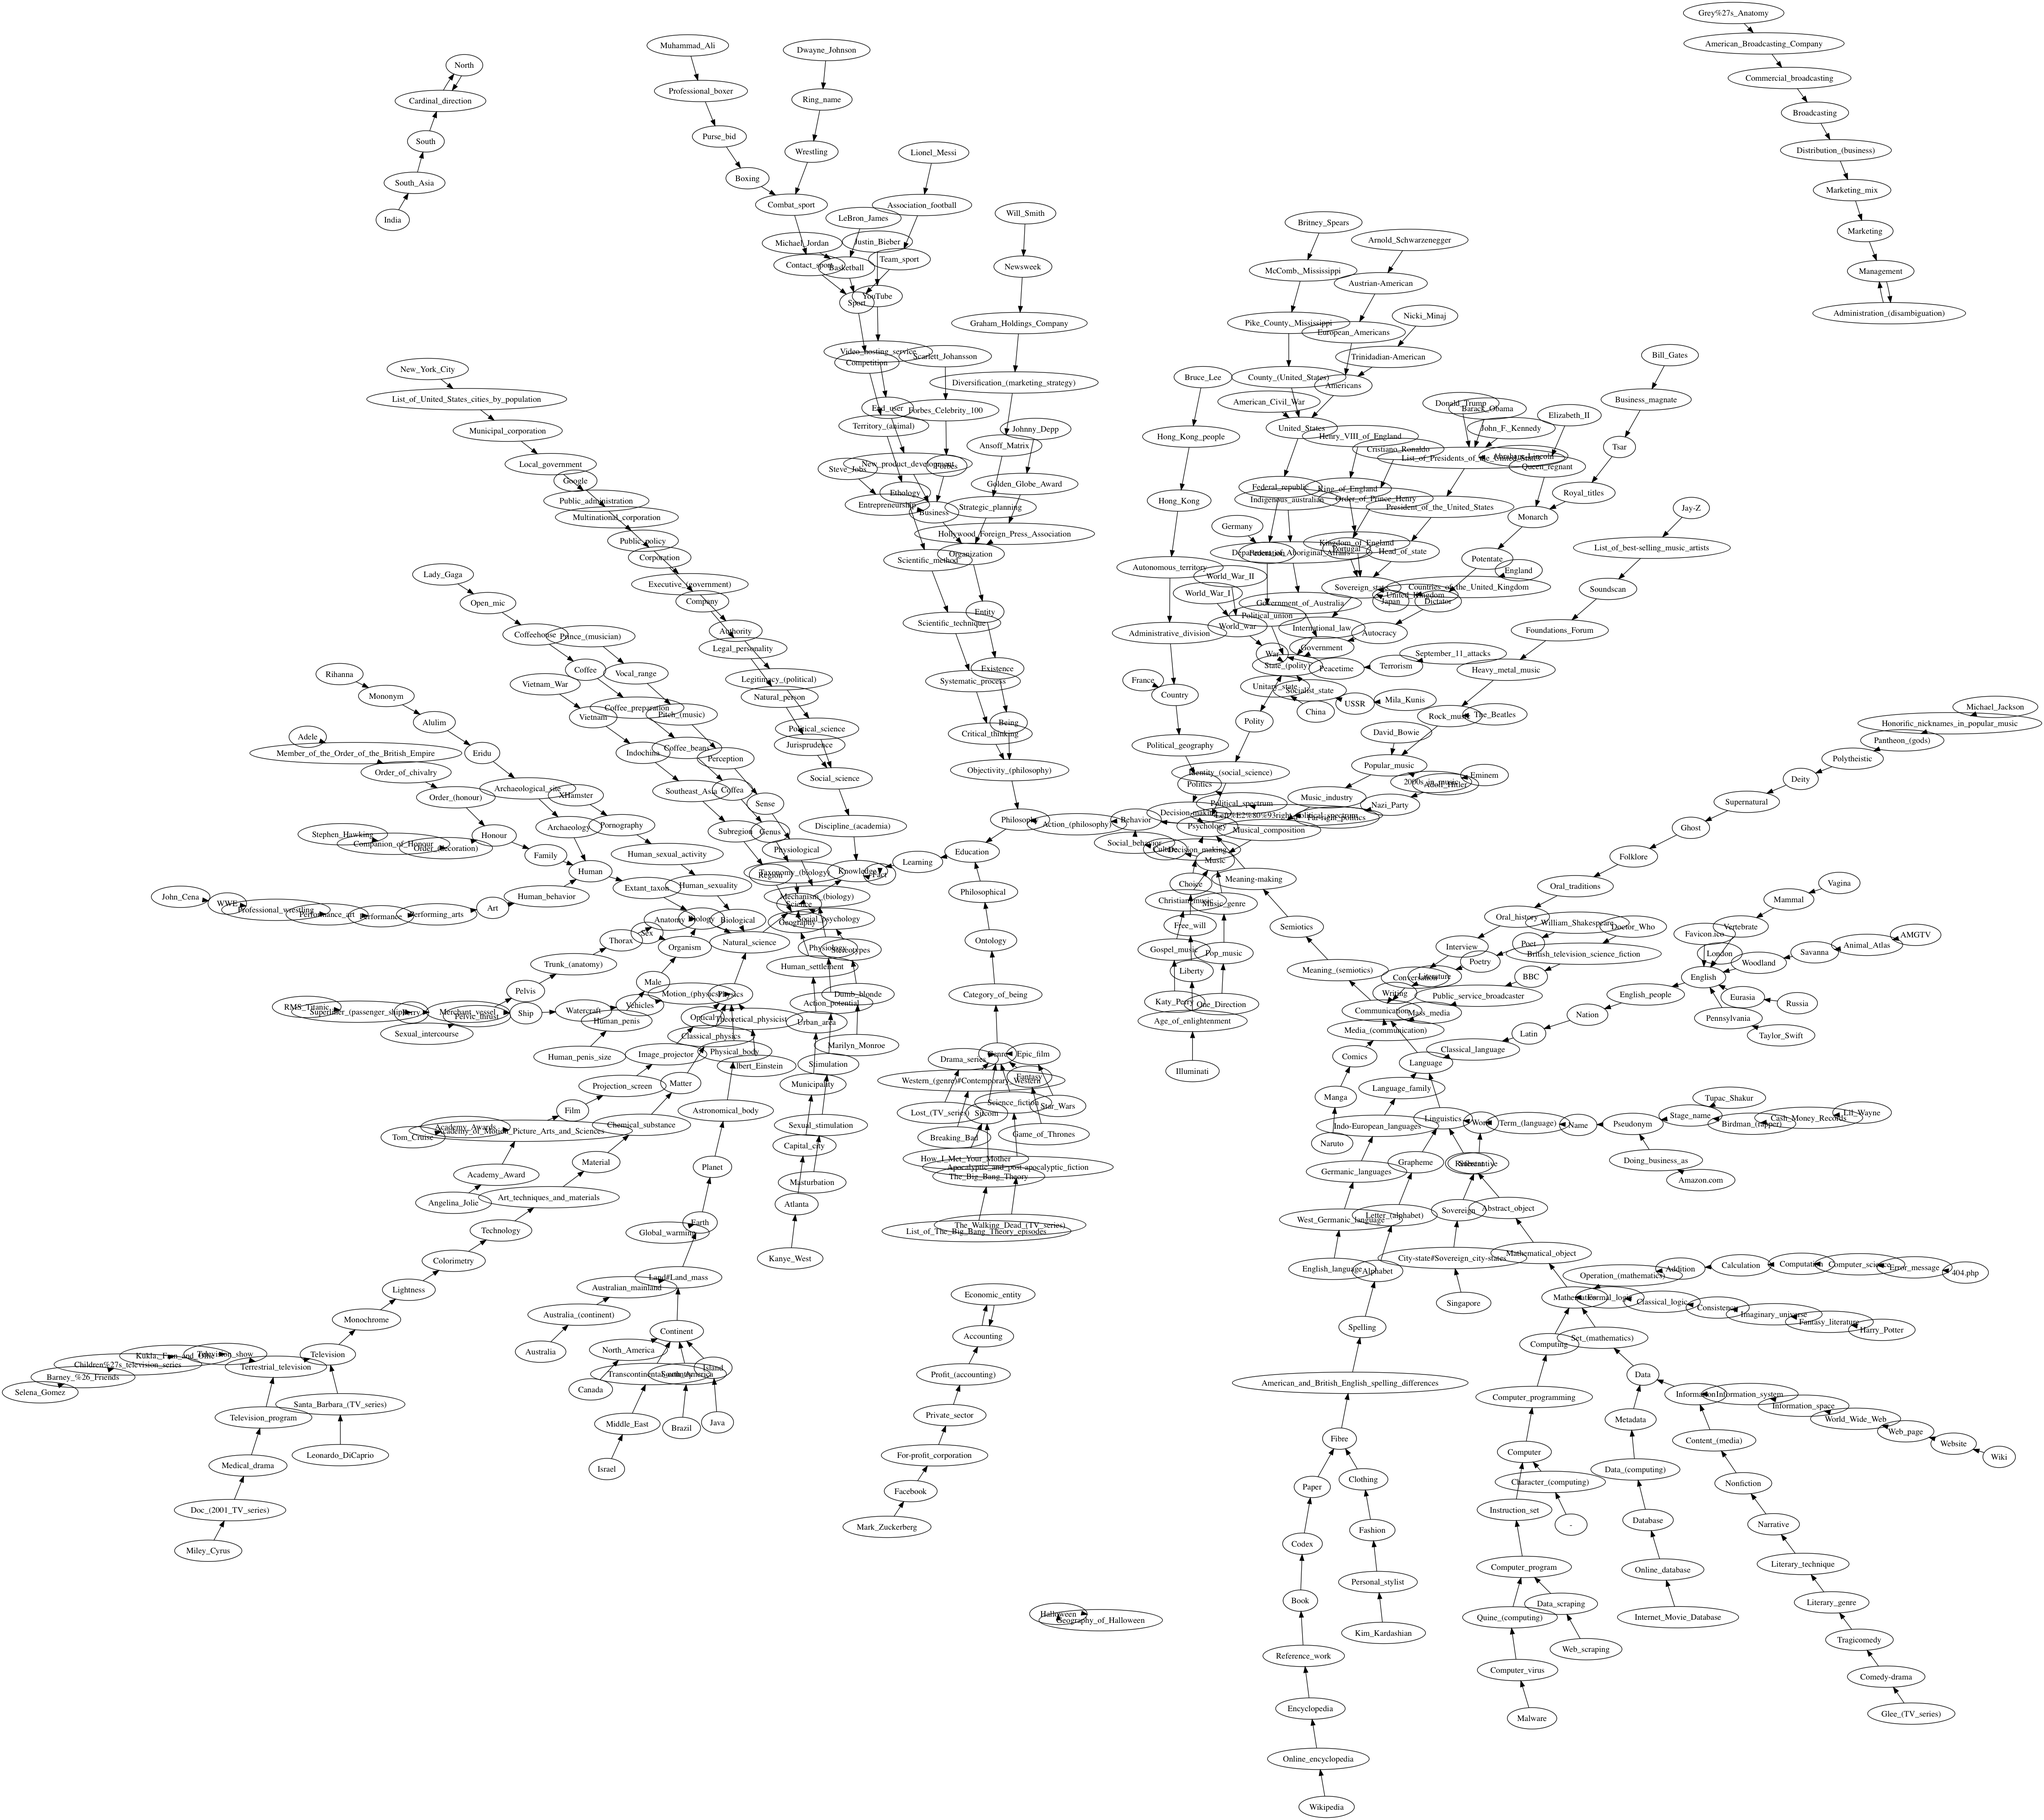
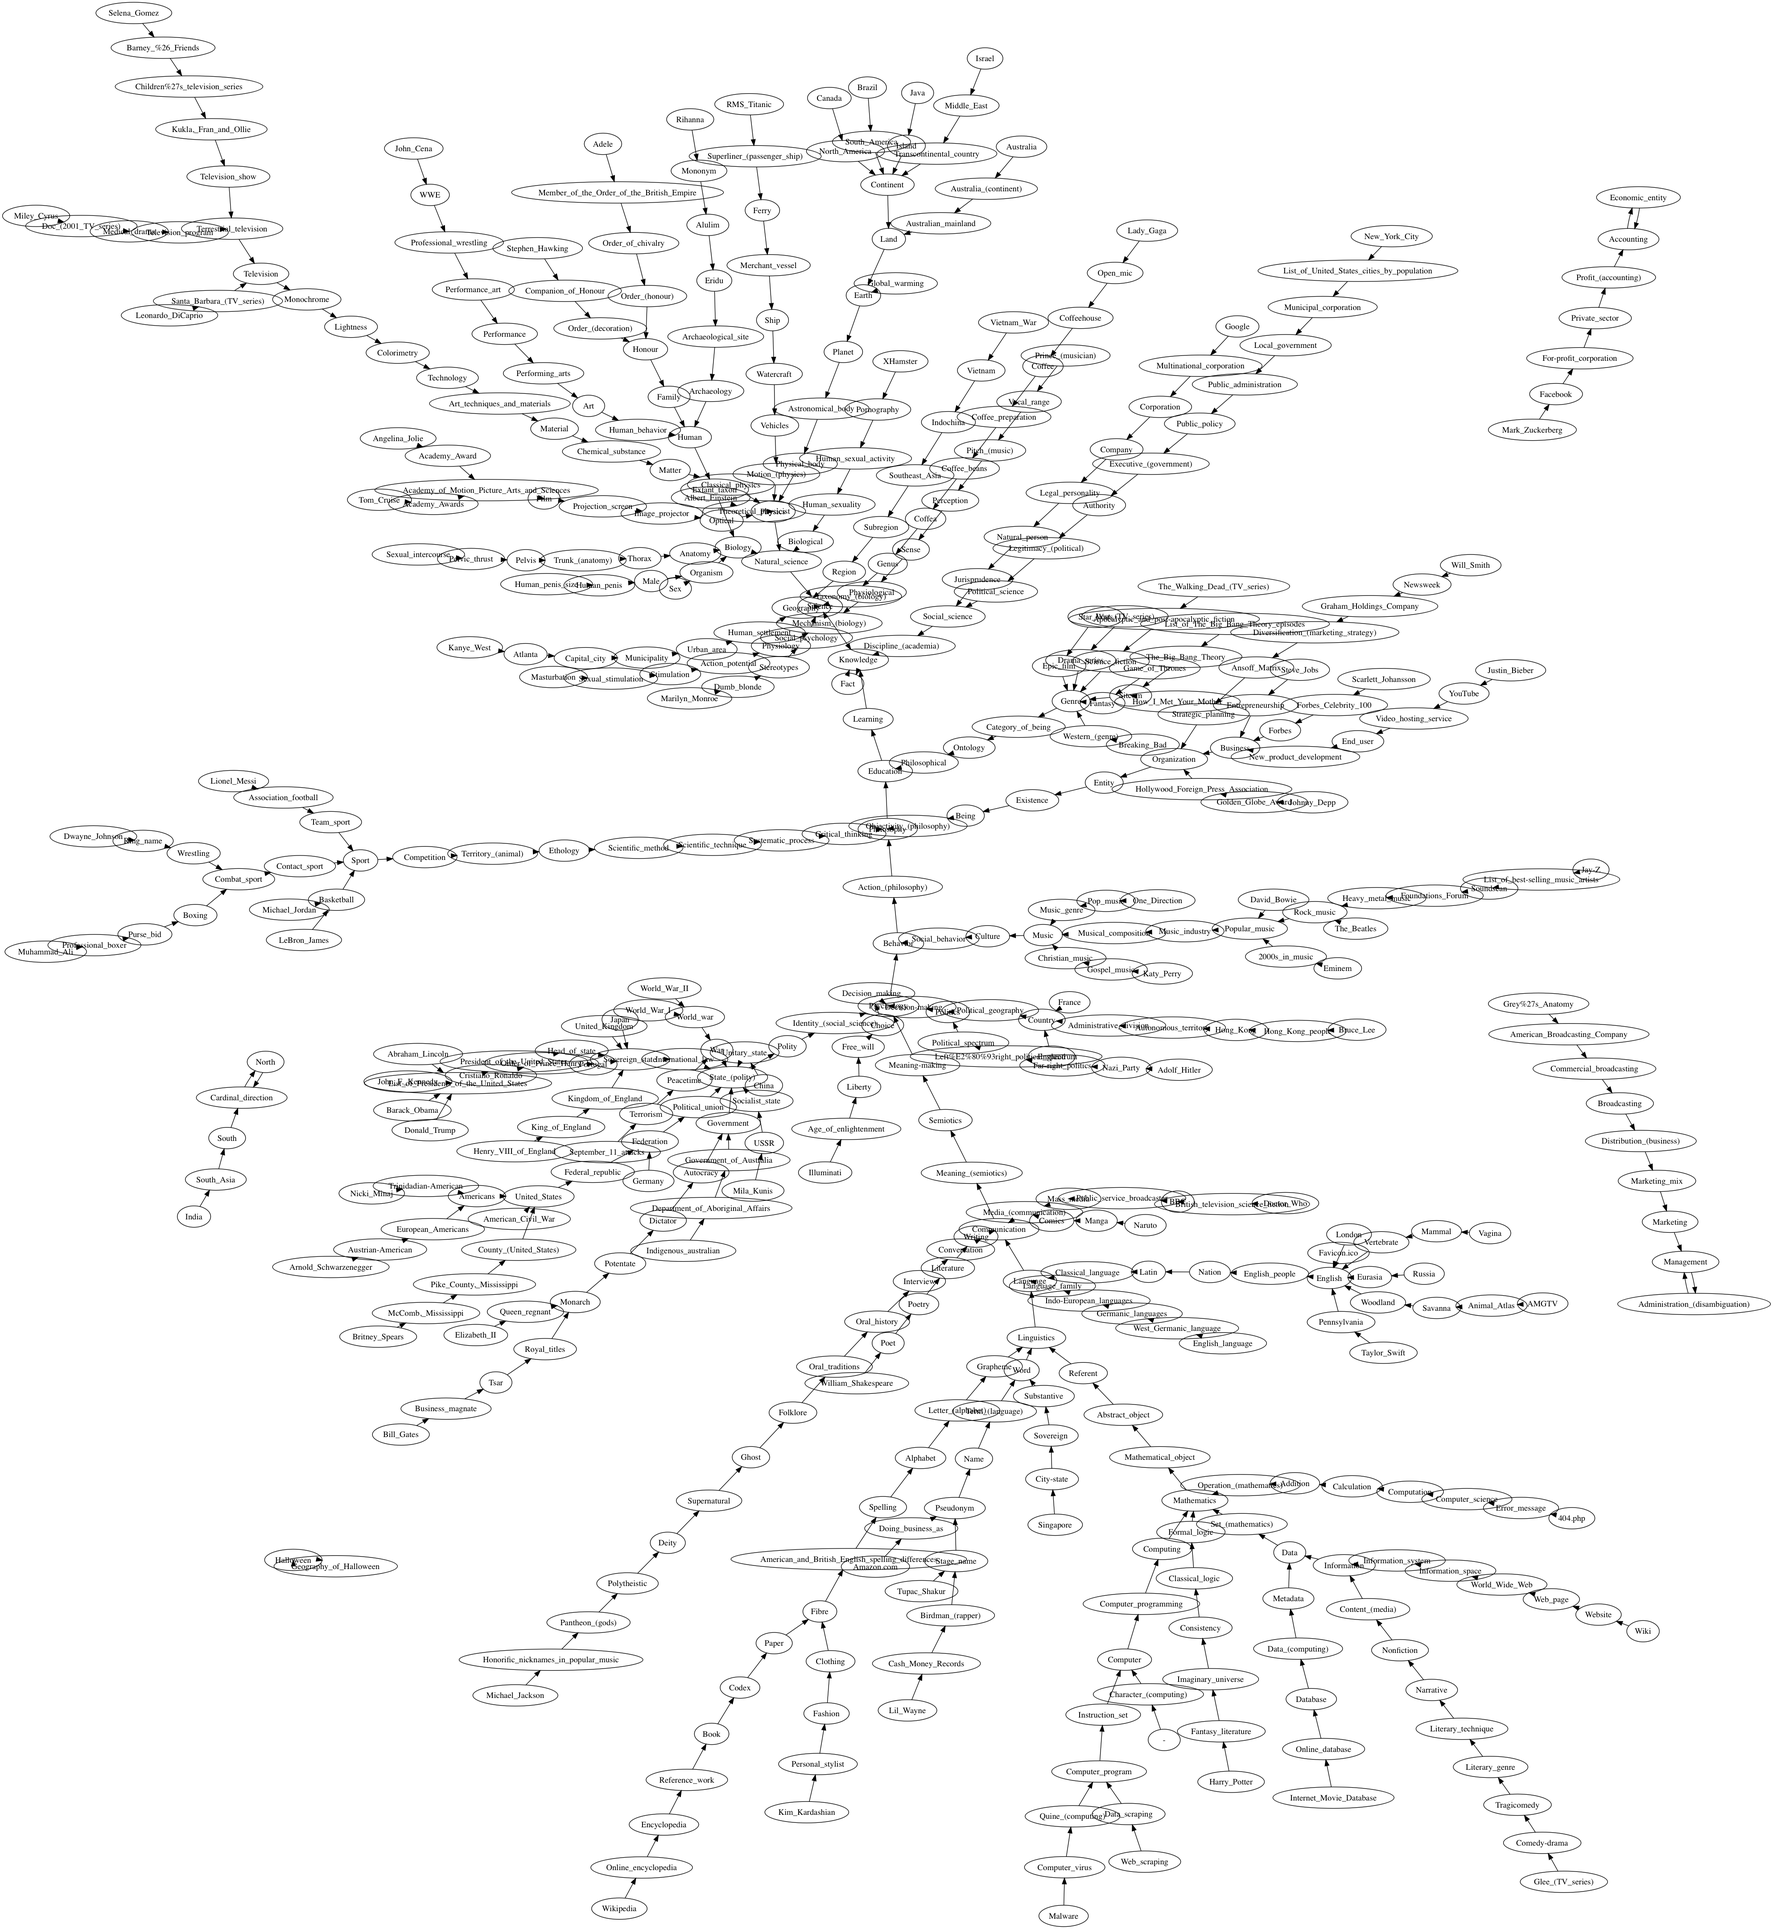
improvement on links containing anchors and importing directional graphs

diff --git a/wiki.py b/wiki.py
@@ -24,6 +24,12 @@ known = []
 next_node = {}
 
 
+def name(page):
+    """Gets the title of the page from any link
+    """
+    return page.split('/')[-1].split('#')[0]
+
+
 def rel_link(page):
     """relative link for webpage: format /wiki/pagename
     """
@@ -72,6 +78,7 @@ def get_next_link(link):
     if verbose:
         print('   ', link.get_text().ljust(70), link.get('href'))
     return link.get('href')
+
 
 # argparse
 parser = argparse.ArgumentParser()
@@ -130,8 +137,10 @@ G = None
 
 if load and use_nx:
     # load from file
+    G = nx.DiGraph()
     fh = open("graph.adjlist",'rb')
-    G = nx.read_adjlist(fh)
+    nx.read_adjlist(fh, create_using=G)
+    # G = nx.read_adjlist(fh) # undirected version. Might have to be reinstated, since undocumented function.
     print('loaded file')
 else:
     # use WikipediA as data source
@@ -181,7 +190,7 @@ else:
 
         # initiate
         previous_page = None
-        current_page = page.get('href').split('/')[-1]
+        current_page = name(page.get('href'))
         # iterative search
         while current_page not in known:
             page_stack.append(current_page)
@@ -193,7 +202,7 @@ else:
                     G.add_edge(previous_page, current_page)
             next_node[previous_page] = current_page
             previous_page = current_page
-            current_page = get_next_link(rel_link(current_page)).split('/')[-1]
+            current_page = name(get_next_link(rel_link(current_page)))
         # finish page
         next_node[previous_page] = current_page
         if use_nx and not previous_page == None:
